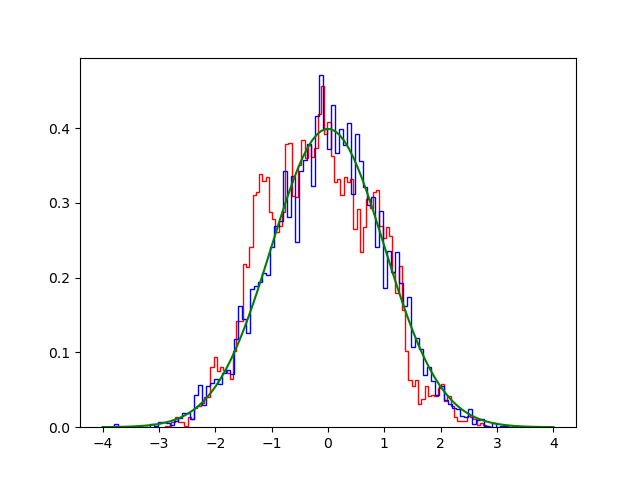
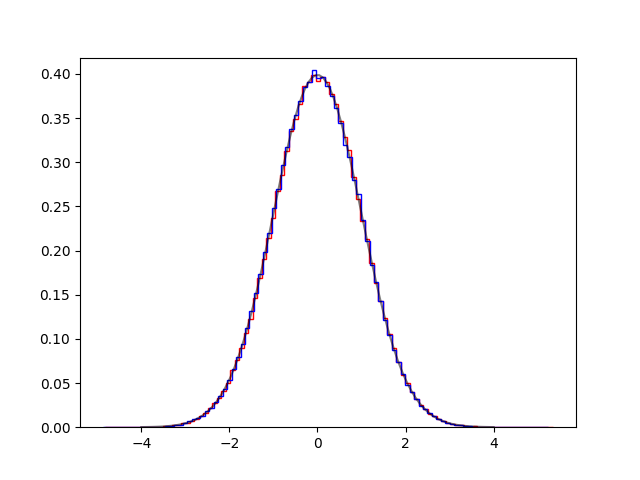
graph: fix a bug in graph.langevin, add langevin2.py

diff --git a/graph.py b/graph.py
@@ -142,7 +142,7 @@ def langevin(fun, draws, init, dfun, h, log=False):
         h : float
               the step of the proposal
         dfun : callable
-              the of the log unnormalized probability
+              the log unnormalized probability
         log : bool
               set True to assume log-probability (default: False)
 
@@ -163,7 +163,7 @@ def langevin(fun, draws, init, dfun, h, log=False):
 	def sqdiff(a, b):
 		return kahan_sum((a - b)**2 for a, b in zip(a, b))
 
-	sqh = math.sqrt(h)
+	sq2h = math.sqrt(2 * h)
 	x = init[:]
 	y = [x + 1 / 2 * h * d for x, d in zip(x, dfun(x))]
 	p = fun(x)
@@ -176,10 +176,10 @@ def langevin(fun, draws, init, dfun, h, log=False):
 		if t >= draws:
 			break
 		t += 1
-		xp = [random.gauss(x, sqh) for x in x]
-		yp = [xp + 1 / 2 * h * d for xp, d in zip(xp, dfun(xp))]
+		xp = [random.gauss(y, sq2h) for y in y]
+		yp = [xp + h * d for xp, d in zip(xp, dfun(xp))]
 		pp = fun(xp)
-		if cond(pp, p, sqdiff(xp, y), sqdiff(x, yp)):
+		if cond(pp, p, sqdiff(xp, y) / (4 * h), sqdiff(x, yp) / (4 * h)):
 			x, p, y = xp, pp, yp
 			accept += 1
 	sys.stderr.write("graph.langevin: accept = %g\n" % (accept / draws))

diff --git a/examples/graph/langevin2.py b/examples/graph/langevin2.py
@@ -1,0 +1,37 @@
+import graph
+import math
+import matplotlib.pyplot as plt
+import numpy as np
+import tensorflow.compat.v2 as tf
+import tensorflow_probability as tfp
+
+tfd = tfp.distributions
+dtype = np.float32
+h = 0.75
+target = tfd.Normal(loc=dtype(0), scale=dtype(1))
+def lprob(x):
+	return target.log_prob(x)
+
+
+def fun(x):
+	return -1 / 2 * x[0]**2
+
+
+def dfun(x):
+	return [-x[0]]
+
+
+draws = 1000
+S0 = tfp.mcmc.sample_chain(num_results=draws,
+                           current_state=dtype(1),
+                           kernel=tfp.mcmc.MetropolisAdjustedLangevinAlgorithm(
+                               lprob, step_size=h),
+                           trace_fn=None,
+                           seed=42)
+S1 = graph.langevin(fun, draws, [0], dfun, h, log=True)
+x = np.linspace(-4, 4, 100)
+y = [math.exp(-x**2 / 2) / math.sqrt(2 * math.pi) for x in x]
+plt.hist(S0, 100, histtype='step', density=True, color='red')
+plt.hist([e for (e, ) in S1], 100, histtype='step', density=True, color='blue')
+plt.plot(x, y, '-g')
+plt.savefig('langevin2.png')

diff --git a/examples/graph/langevin0.py b/examples/graph/langevin0.py
@@ -6,7 +6,7 @@ import numpy as np
 
 
 def fun(x):
-	return -1 / 2 * x[0]**2
+	return -x[0]**2 / 2
 
 
 def dfun(x):
@@ -14,8 +14,8 @@ def dfun(x):
 
 
 random.seed(123456)
-draws = 10000
-h = 0.01
+draws = 1000000
+h = 1.5
 step = [1.5]
 S0 = graph.langevin(fun, draws, [0], dfun, h, log=True)
 S1 = graph.metropolis(fun, draws, [0], step, log=True)
@@ -23,5 +23,5 @@ x = np.linspace(-4, 4, 100)
 y = [math.exp(fun([x])) / math.sqrt(2 * math.pi) for x in x]
 plt.hist([e for (e, ) in S0], 100, histtype='step', density=True, color='red')
 plt.hist([e for (e, ) in S1], 100, histtype='step', density=True, color='blue')
-plt.plot(x, y, '-g')
+plt.plot(x, y, '-k', alpha=0.5)
 plt.savefig('langevin0.png')

diff --git a/examples/graph/langevin1.py b/examples/graph/langevin1.py
@@ -15,7 +15,7 @@ def dfun(x):
 
 random.seed(123456)
 draws = 10000
-h = 0.1
+h = 0.75
 S0 = graph.langevin(fun, draws, [0, 0], dfun, h, log=True)
 plt.scatter(*zip(*S0), alpha=0.1)
 plt.savefig("langevin1.png")

diff --git a/examples/graph/README.md b/examples/graph/README.md
@@ -18,3 +18,5 @@
 <p align="center"><img src="langevin0.png"/></p>
 [langevin1.py](langevin1.py)</br>
 <p align="center"><img src="langevin1.png"/></p>
+[langevin2.py](langevin2.py)</br>
+<p align="center"><img src="langevin2.png"/></p>
